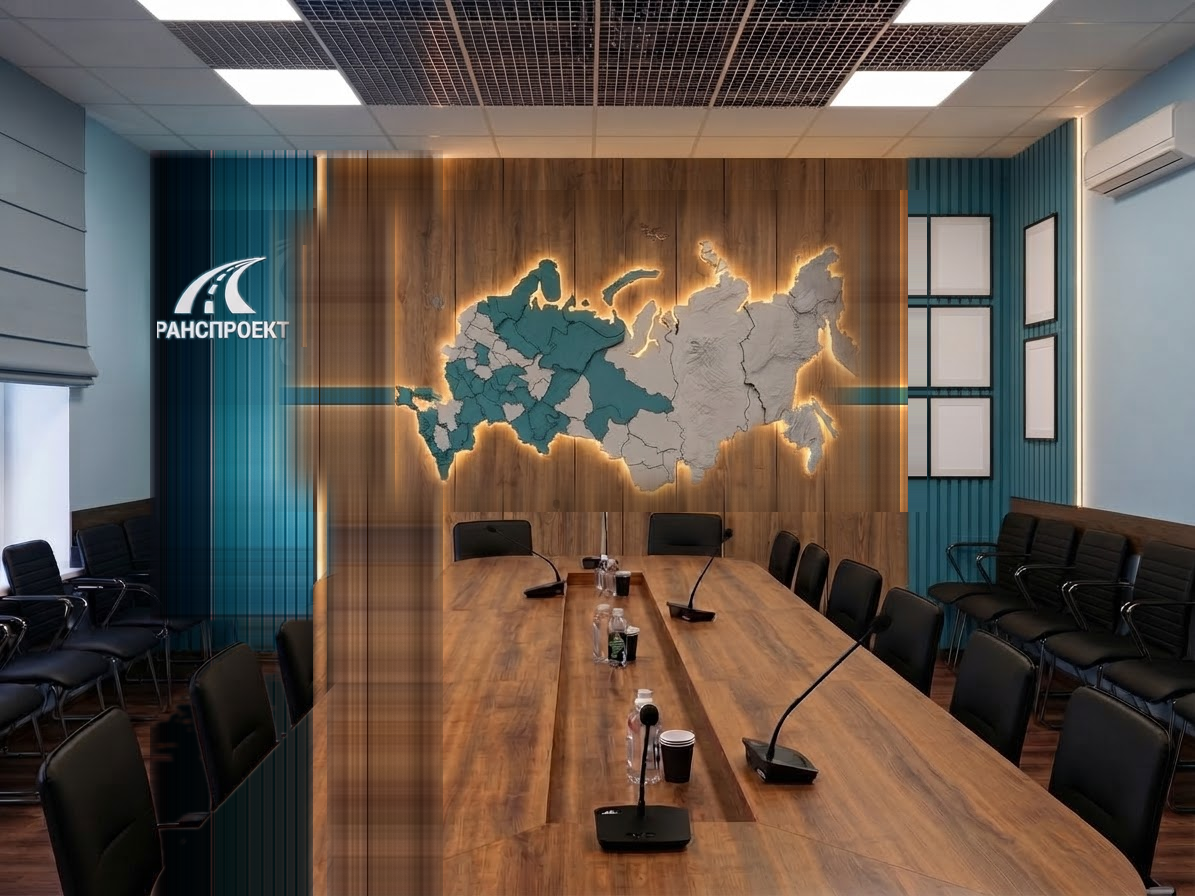
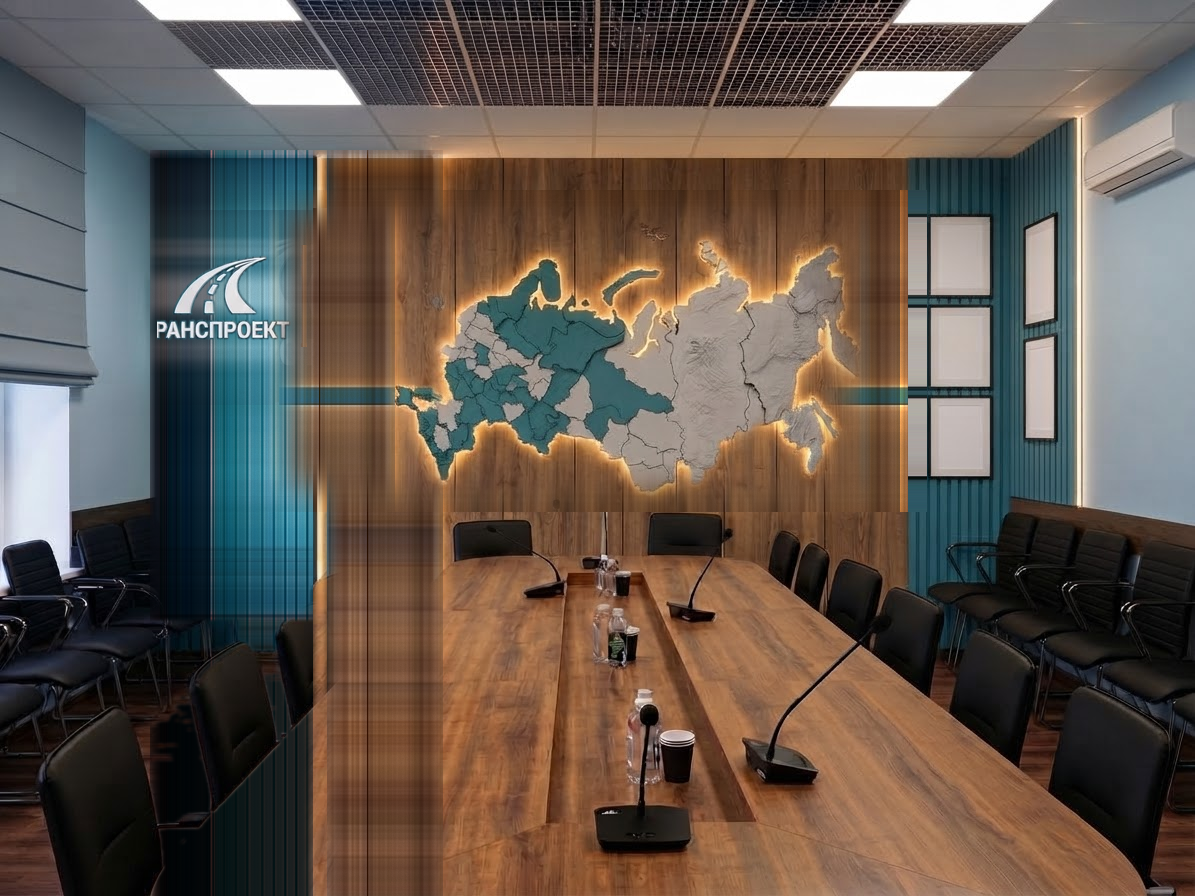
Стена v2: teal-секции слева/справа одинаковой ширины, логотип пропорционален, карта по центру (возврат тёплого пятна LED на панели зала 1)

Changed region(s): [[0.1238, 0.2188, 0.2477, 0.4375]]

diff --git a/tools/fix_wall_h1.py b/tools/fix_wall_h1.py
@@ -63,7 +63,17 @@ for y in range(H):
         V[y] = prof[640:660].mean(axis=0) * 0.96
 # нормировка, чтобы zone(x,550)=P(x)
 norm = V[550].copy()
+# тёплое пятно LED-подсветки панели: замер по краям зоны (без логотипа), поканально
+strip = [x - ZX0 for x in (150, 151, 152, 310, 311, 312)]
+baseline = (P[strip].mean(axis=0)[None, :] * (V / norm[None, :]))   # (H,3) на строках-y
+orig_on_strip = arr0[:, [ZX0 + k for k in strip], :].mean(axis=1)    # (H,3)
+sur3 = np.clip(orig_on_strip - baseline, 0, None)
+for ch in range(3):
+    sur3[:, ch] = np.convolve(sur3[:, ch], np.ones(17) / 17, mode='same')
+sur3 = sur3 * np.clip((430 - np.arange(H)) / 110.0, 0, 1)[:, None]
+gx = np.exp(-0.5 * ((np.arange(ZX0, ZX1) - 232.0) / 95.0) ** 2)
 zone = P[None, :, :] * (V[Y0:Y1] / norm[None, :])[:, None, :]
+zone = zone + sur3[Y0:Y1][:, None, :] * gx[None, :, None] * 0.9
 zone *= (1 + rng.normal(0, 0.009, size=zone.shape[:2])[..., None])
 zone = np.clip(zone, 0, 255).astype('uint8')
 mz = feathered_rect(W, H, [ZX0, Y0, ZX1, Y1], feather=6)
